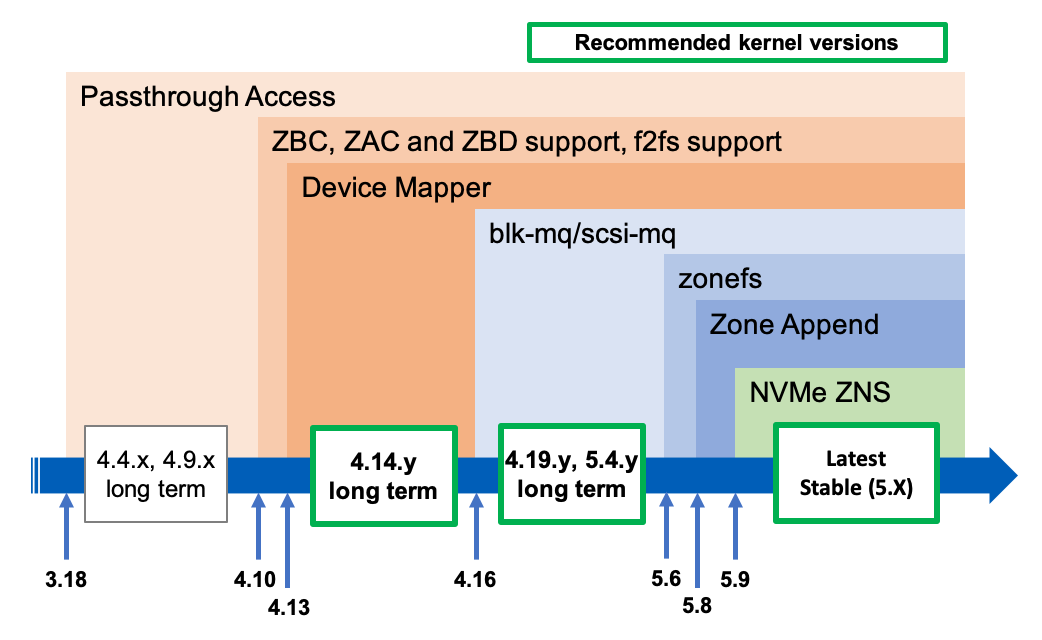
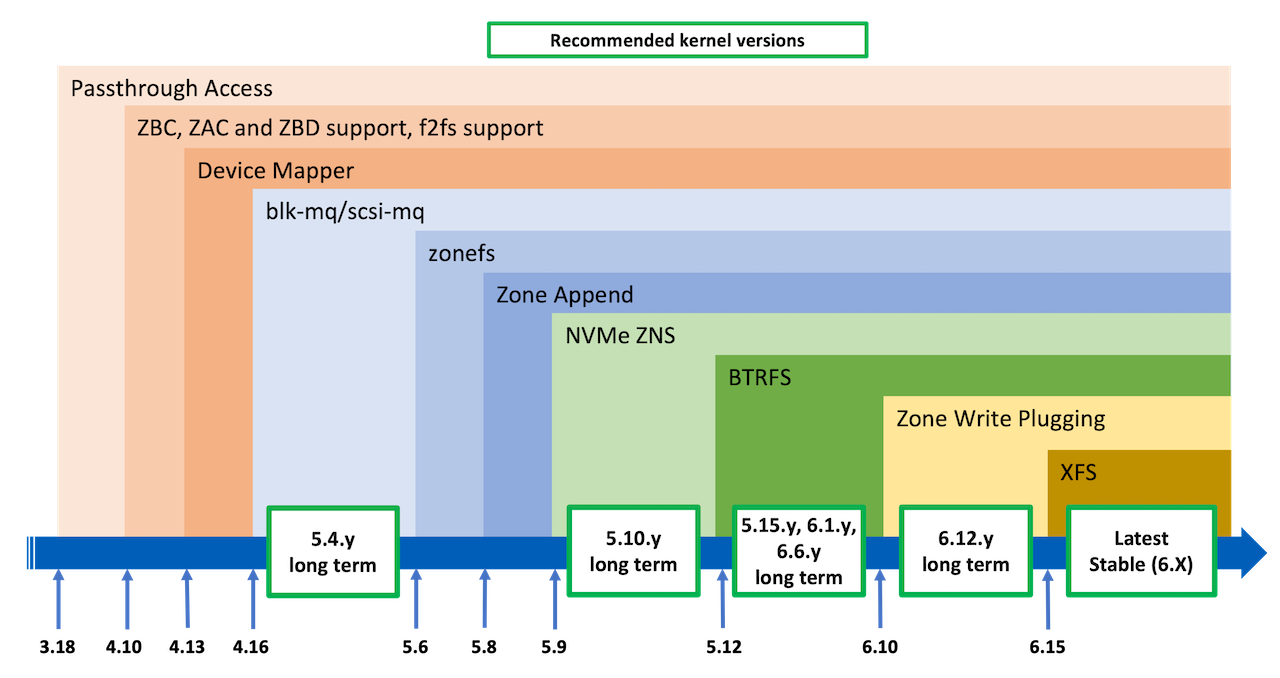
Update Linux kernel support overview
Update the figure to include BTRFS, zone write plugging and XFS.

diff --git a/docs/linux/overview.md b/docs/linux/overview.md
@@ -99,7 +99,7 @@ The figure below summarizes the evolution of zoned block device support with
 kernel versions.
 
 <Image src="linux-versions.png"
-title="Kernel kernel versions and ZBD features"/>
+title="Kernel versions and supported features"/>
 
 * **Passthrough Access Support (*SG Access*)** Support for exposing host managed
   ZBC/ZAC hard-disks as SCSI generic (SG) nodes was officially added to kernel
@@ -161,8 +161,21 @@ title="Kernel kernel versions and ZBD features"/>
   characteristics (ZOC), and also requires that the device implements the
   optional Zone Append command.
 
-Improvements to the kernel zoned block device support are still ongoing. Support
-for new file systems (e.g. *btrfs*) will be released in the coming months.
+* **BTRFS Support** Support for the [BTRFS file system](/docs/filesystems/btrfs)
+  was added in kernel version 5.12. This POSIX compliant general purpose
+  file system completely hides the sequential write constraint of zoned block
+  devices to users, and thus allows the execution of unmodified applications
+  using files to manage data.
+
+* **Zone Write Plugging** Kernel version 6.10 introduced an improved write
+  ordering control for zoned block devices. This is implemented as a generic
+  feature of the block layer. [Zone Write
+  Plugging](/docs/linux/sched#zone-write-plugging) replaces the older write
+  ordering [Zone Write Locking](/docs/linux/sched#zone-write-locking) mechanism
+  implemented within the *mq-deadline* block I/O scheduler.
+
+* **XFS Support** With kernel 6.15, the [*XFS* file
+  system](/docs/filesystems/xfs) gained native zoned block device support.
 
 ## Recommended Kernel Versions
 
@@ -170,12 +183,12 @@ All kernel versions since 4.10 include zoned block device support. However, as
 shown in the figure [Kernel versions and features](#kernel-versions), some
 versions are recommended over others.
 
-* **Long Term Stable (LTS) Versions** Kernel versions 4.14, 4.19, 5.4, 5.10 and
-  5.15 are long term stable kernel versions that include bug fixes backported
-  from fixes in the mainline (development) kernel. These versions benefit from
-  stability improvements that were developed for higher versions. Fixes to the
-  zoned-block-device support infrastructure are also backported to these
-  versions.
+* **Long Term Stable (LTS) Versions** Kernel versions 5.4, 5.10, 5.15 6.1, 6.6,
+  and 6.12 are long term stable kernel versions that include bug fixes
+  backported from fixes in the mainline (development) kernel. These versions
+  benefit from stability improvements that were developed for higher versions.
+  Fixes to the zoned-block-device support infrastructure are also backported to
+  these versions.
 
 * **Latest Stable Version** While not necessarily marked as a long-term stable
   version, the latest stable kernel version receives all bug fixes developed in
